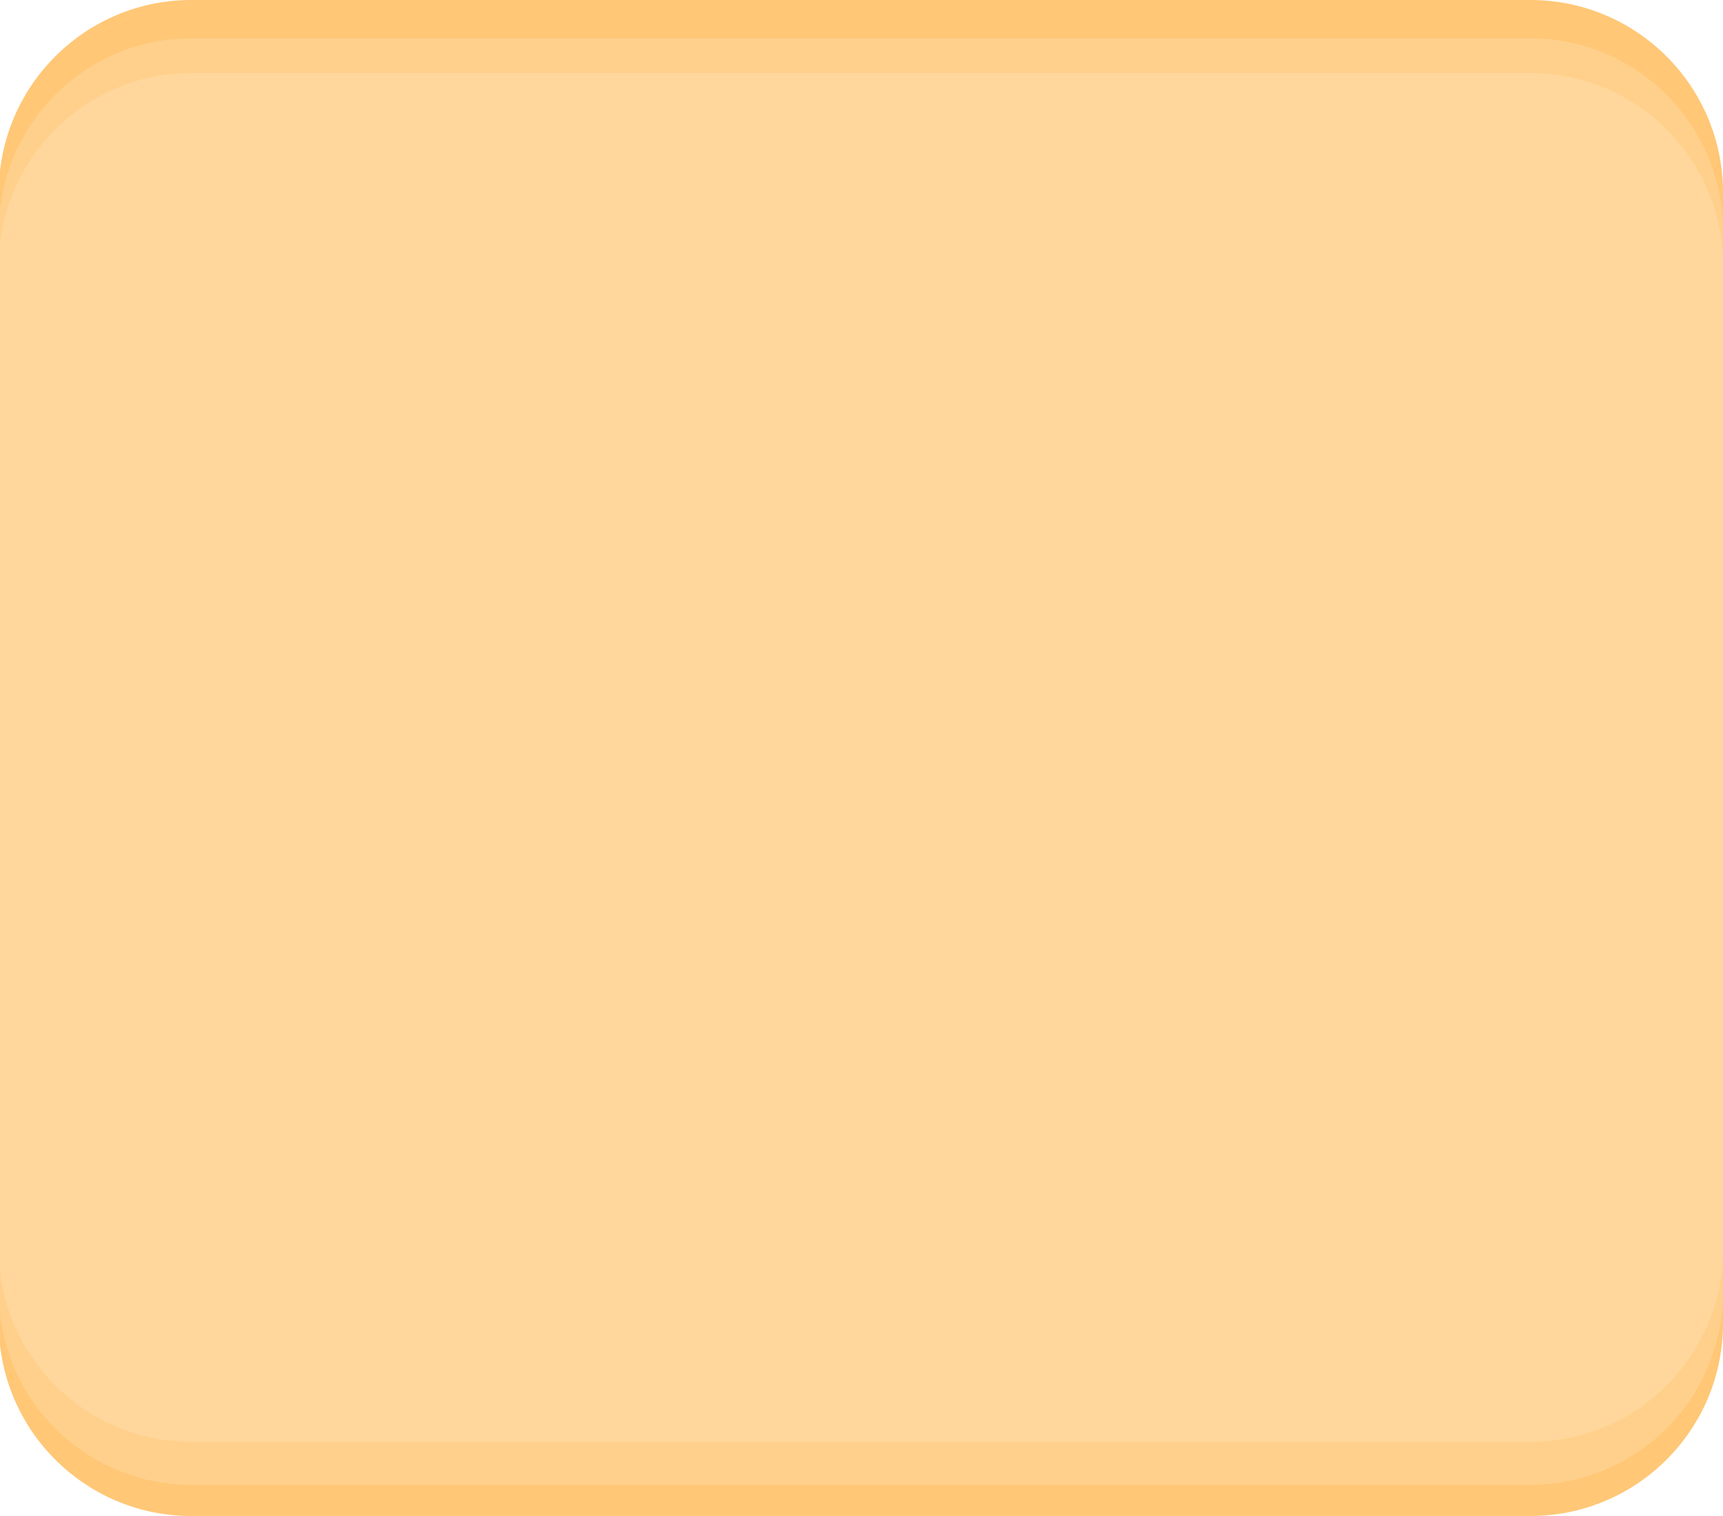
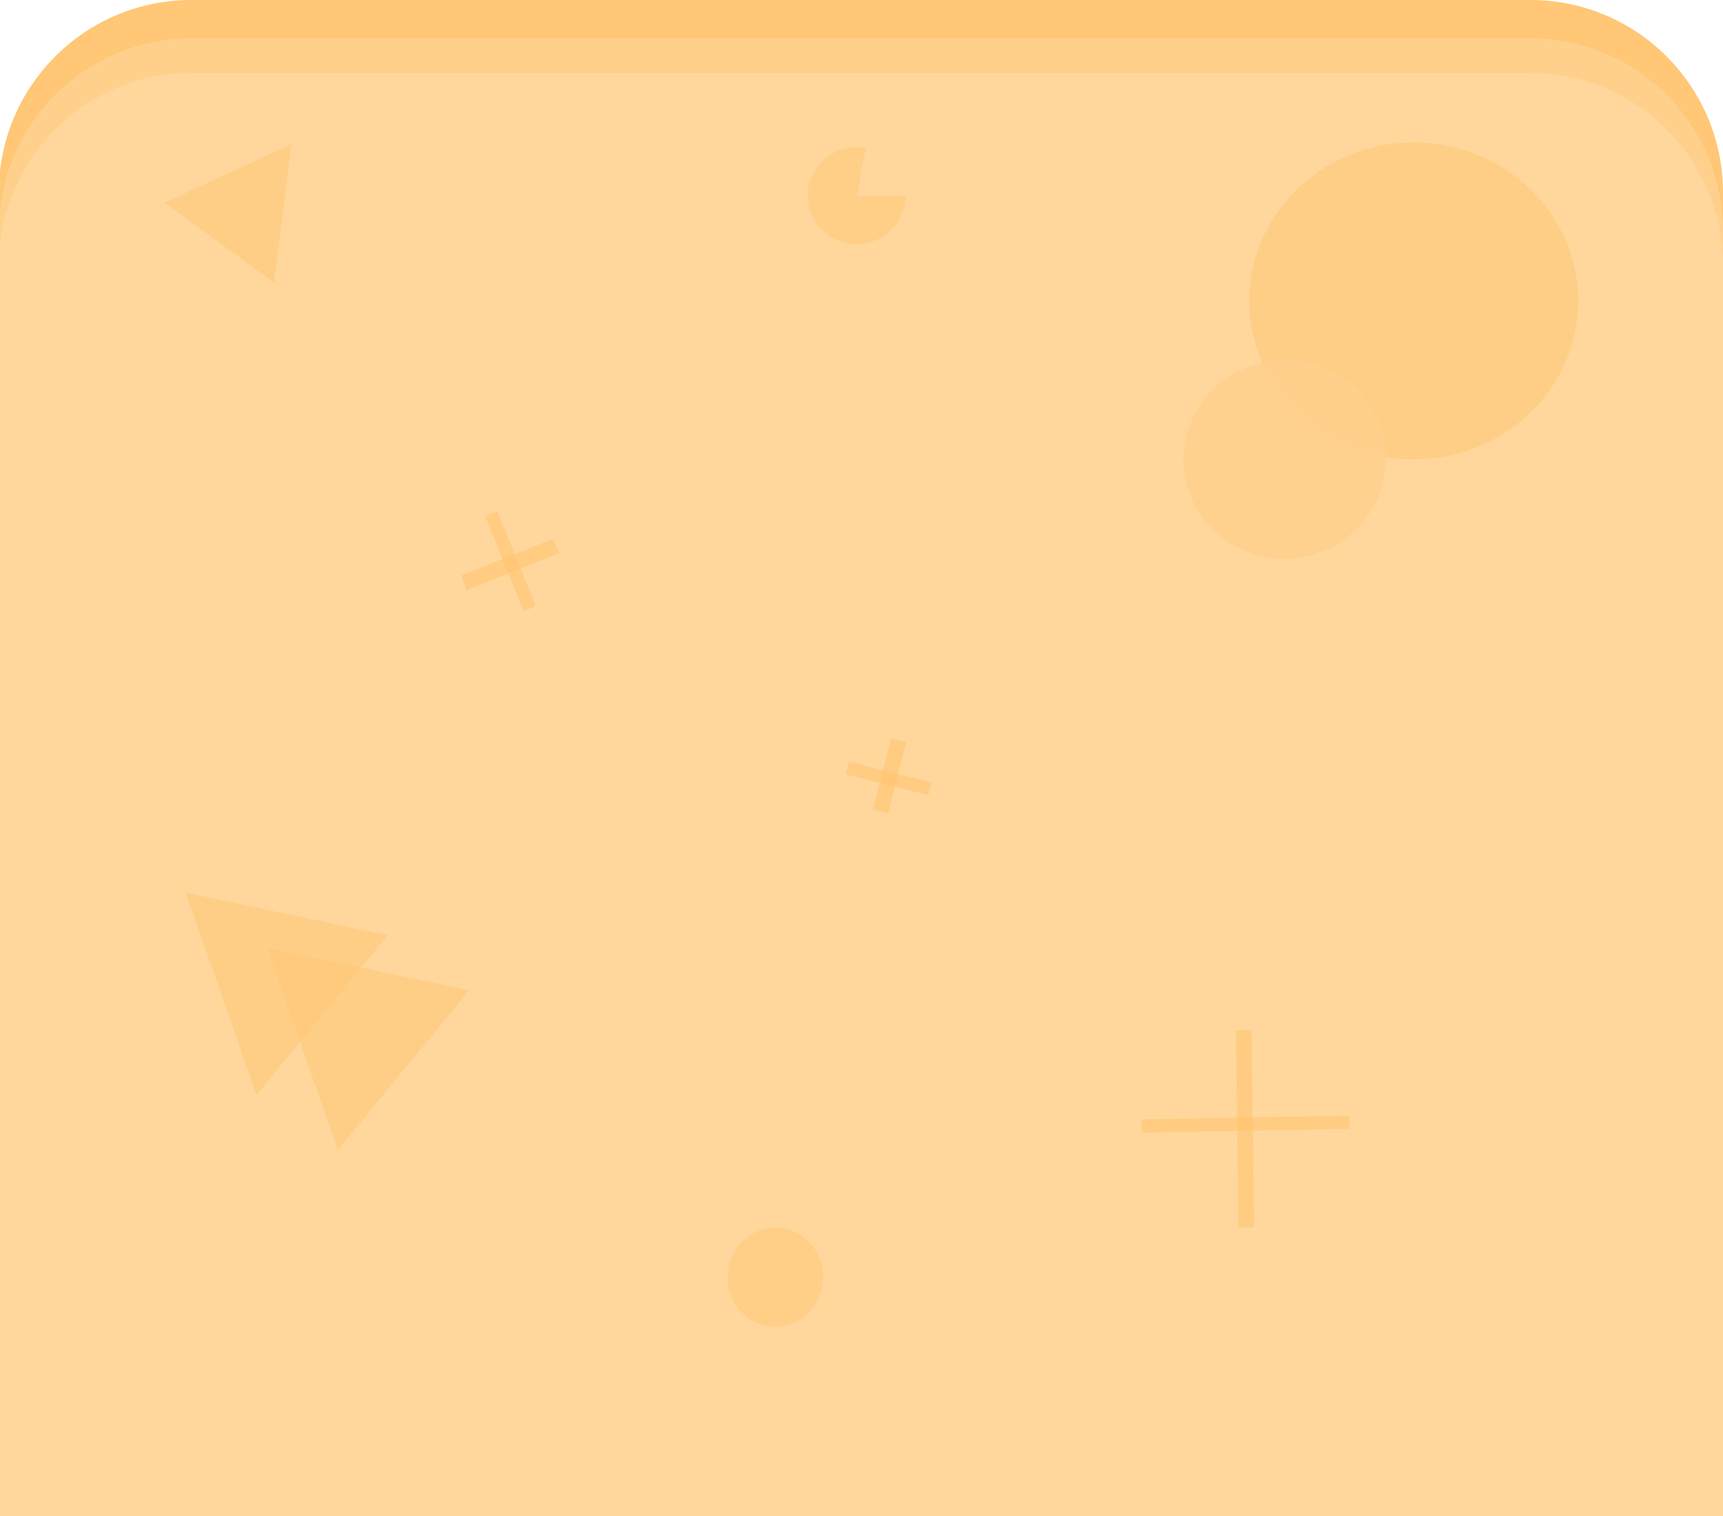
menambahkan corak

diff --git a/index.html b/index.html
@@ -184,42 +184,166 @@
                         </h3>
                     </div>
                     <div class="row mt-5">
-                        <div class="col-lg-4 col-md-4">
-                            <div class="card card-testimoni text-center" data-aos="fade-up" data-aos-duration="300">
-                                <img src="/img/hero-image.png" class="card-img-top" alt="testimoni">
-                                <div class="card-body">
-                                    <h4 class="card-title">
-                                        Mas AlFaiz
-                                    </h4>
-                                    <p class="card-text">Lorem Ipsum is simply dummy text of the printing Lorem Ipsum is simply dummy text of the printing Lorem Ipsum is simply dummy text of the printing Lorem Ipsum is simply dummy text of the printing Lorem Ipsum is simply
-                                        dummy text of the printing Lorem </p>
+                        <div id="carouselMultiItemExample" class="carousel slide carousel-dark text-center" data-bs-ride="carousel">
+                            <!-- Controls -->
+                            <div class="d-flex justify-content-center mb-4">
+                                <button class="carousel-control-prev position-relative btn-carousel" type="button" data-bs-target="#carouselMultiItemExample" data-bs-slide="prev">
+                                <span class="carousel-control-prev-icon" aria-hidden="true">
+                                    <img src="/img/lelf.svg" alt="left" srcset="">
+                                </span>
+                                <span class="visually-hidden">Previous</span>
+                              </button>
+                                <button class="carousel-control-next position-relative" type="button" data-bs-target="#carouselMultiItemExample" data-bs-slide="next">
+                                <span class="carousel-control-next-icon" aria-hidden="true">
+                                    <img src="/img/right.svg" alt="right" srcset="">
+                                </span>
+                                <span class="visually-hidden">Next</span>
+                              </button>
+                            </div>
+                            <!-- Inner -->
+                            <div class="carousel-inner py-4">
+                                <!-- Single item -->
+                                <div class="carousel-item active">
+                                    <div class="container">
+                                        <div class="row">
+                                            <div class="col-lg-4">
+                                                <div class="card card-testimoni text-center" data-aos="fade-up" data-aos-duration="800">
+                                                    <img src="/img/testi1.png" class="card-img-top" alt="testimoni">
+                                                    <div class="card-body">
+                                                        <h4 class="card-title">
+                                                            Mas AlFaiz
+                                                        </h4>
+                                                        <p class="card-text">Lorem Ipsum is simply dummy text of the printing Lorem Ipsum is simply dummy text of the printing Lorem Ipsum is simply dummy text of the printing Lorem Ipsum is simply dummy text of the printing
+                                                            Lorem Ipsum is simply dummy text of the printing Lorem </p>
+                                                    </div>
+                                                </div>
+                                            </div>
+
+                                            <div class="col-lg-4 d-none d-lg-block">
+                                                <div class="card card-testimoni text-center" data-aos="fade-up" data-aos-duration="800">
+                                                    <img src="/img/testi1.png" class="card-img-top" alt="testimoni">
+                                                    <div class="card-body">
+                                                        <h4 class="card-title">
+                                                            Mas AlFaiz
+                                                        </h4>
+                                                        <p class="card-text">Lorem Ipsum is simply dummy text of the printing Lorem Ipsum is simply dummy text of the printing Lorem Ipsum is simply dummy text of the printing Lorem Ipsum is simply dummy text of the printing
+                                                            Lorem Ipsum is simply dummy text of the printing Lorem </p>
+                                                    </div>
+                                                </div>
+                                            </div>
+
+                                            <div class="col-lg-4 d-none d-lg-block">
+                                                <div class="card card-testimoni text-center" data-aos="fade-up" data-aos-duration="800">
+                                                    <img src="/img/testi1.png" class="card-img-top" alt="testimoni">
+                                                    <div class="card-body">
+                                                        <h4 class="card-title">
+                                                            Mas AlFaiz
+                                                        </h4>
+                                                        <p class="card-text">Lorem Ipsum is simply dummy text of the printing Lorem Ipsum is simply dummy text of the printing Lorem Ipsum is simply dummy text of the printing Lorem Ipsum is simply dummy text of the printing
+                                                            Lorem Ipsum is simply dummy text of the printing Lorem </p>
+                                                    </div>
+                                                </div>
+                                            </div>
+                                        </div>
+                                    </div>
+                                </div>
+
+                                <!-- Single item -->
+                                <div class="carousel-item">
+                                    <div class="container">
+                                        <div class="row">
+                                            <div class="col-lg-4">
+                                                <div class="card card-testimoni text-center" data-aos="fade-up" data-aos-duration="800">
+                                                    <img src="/img/testi1.png" class="card-img-top" alt="testimoni">
+                                                    <div class="card-body">
+                                                        <h4 class="card-title">
+                                                            Mas AlFaiz
+                                                        </h4>
+                                                        <p class="card-text">Lorem Ipsum is simply dummy text of the printing Lorem Ipsum is simply dummy text of the printing Lorem Ipsum is simply dummy text of the printing Lorem Ipsum is simply dummy text of the printing
+                                                            Lorem Ipsum is simply dummy text of the printing Lorem </p>
+                                                    </div>
+                                                </div>
+                                            </div>
+
+                                            <div class="col-lg-4 d-none d-lg-block">
+                                                <div class="card card-testimoni text-center" data-aos="fade-up" data-aos-duration="800">
+                                                    <img src="/img/testi1.png" class="card-img-top" alt="testimoni">
+                                                    <div class="card-body">
+                                                        <h4 class="card-title">
+                                                            Mas AlFaiz
+                                                        </h4>
+                                                        <p class="card-text">Lorem Ipsum is simply dummy text of the printing Lorem Ipsum is simply dummy text of the printing Lorem Ipsum is simply dummy text of the printing Lorem Ipsum is simply dummy text of the printing
+                                                            Lorem Ipsum is simply dummy text of the printing Lorem </p>
+                                                    </div>
+                                                </div>
+                                            </div>
+
+                                            <div class="col-lg-4 d-none d-lg-block">
+                                                <div class="card card-testimoni text-center" data-aos="fade-up" data-aos-duration="800">
+                                                    <img src="/img/testi1.png" class="card-img-top" alt="testimoni">
+                                                    <div class="card-body">
+                                                        <h4 class="card-title">
+                                                            Mas AlFaiz
+                                                        </h4>
+                                                        <p class="card-text">Lorem Ipsum is simply dummy text of the printing Lorem Ipsum is simply dummy text of the printing Lorem Ipsum is simply dummy text of the printing Lorem Ipsum is simply dummy text of the printing
+                                                            Lorem Ipsum is simply dummy text of the printing Lorem </p>
+                                                    </div>
+                                                </div>
+                                            </div>
+                                        </div>
+                                    </div>
+                                </div>
+
+                                <!-- Single item -->
+                                <div class="carousel-item">
+                                    <div class="container">
+                                        <div class="row">
+                                            <div class="col-lg-4">
+                                                <div class="card card-testimoni text-center" data-aos="fade-up" data-aos-duration="800">
+                                                    <img src="/img/testi1.png" class="card-img-top" alt="testimoni">
+                                                    <div class="card-body">
+                                                        <h4 class="card-title">
+                                                            Mas AlFaiz
+                                                        </h4>
+                                                        <p class="card-text">Lorem Ipsum is simply dummy text of the printing Lorem Ipsum is simply dummy text of the printing Lorem Ipsum is simply dummy text of the printing Lorem Ipsum is simply dummy text of the printing
+                                                            Lorem Ipsum is simply dummy text of the printing Lorem </p>
+                                                    </div>
+                                                </div>
+                                            </div>
+
+                                            <div class="col-lg-4 d-none d-lg-block">
+                                                <div class="card card-testimoni text-center" data-aos="fade-up" data-aos-duration="800">
+                                                    <img src="/img/testi1.png" class="card-img-top" alt="testimoni">
+                                                    <div class="card-body">
+                                                        <h4 class="card-title">
+                                                            Mas AlFaiz
+                                                        </h4>
+                                                        <p class="card-text">Lorem Ipsum is simply dummy text of the printing Lorem Ipsum is simply dummy text of the printing Lorem Ipsum is simply dummy text of the printing Lorem Ipsum is simply dummy text of the printing
+                                                            Lorem Ipsum is simply dummy text of the printing Lorem </p>
+                                                    </div>
+                                                </div>
+                                            </div>
+
+                                            <div class="col-lg-4 d-none d-lg-block">
+                                                <div class="card card-testimoni text-center" data-aos="fade-up" data-aos-duration="800">
+                                                    <img src="/img/testi1.png" class="card-img-top" alt="testimoni">
+                                                    <div class="card-body">
+                                                        <h4 class="card-title">
+                                                            Mas AlFaiz
+                                                        </h4>
+                                                        <p class="card-text">Lorem Ipsum is simply dummy text of the printing Lorem Ipsum is simply dummy text of the printing Lorem Ipsum is simply dummy text of the printing Lorem Ipsum is simply dummy text of the printing
+                                                            Lorem Ipsum is simply dummy text of the printing Lorem </p>
+                                                    </div>
+                                                </div>
+                                            </div>
+                                        </div>
+                                    </div>
                                 </div>
                             </div>
+                            <!-- Inner -->
                         </div>
-                        <div class="col-lg-4 col-md-4">
-                            <div class="card card-testimoni text-center" data-aos="fade-up" data-aos-duration="500">
-                                <img src="/img/hero-image.png" class="card-img-top" alt="testimoni">
-                                <div class="card-body">
-                                    <h4 class="card-title">
-                                        Mas AlFaiz
-                                    </h4>
-                                    <p class="card-text">Lorem Ipsum is simply dummy text of the printing Lorem Ipsum is simply dummy text of the printing Lorem Ipsum is simply dummy text of the printing Lorem Ipsum is simply dummy text of the printing Lorem Ipsum is simply
-                                        dummy text of the printing Lorem </p>
-                                </div>
-                            </div>
-                        </div>
-                        <div class="col-lg-4 col-md-4">
-                            <div class="card card-testimoni text-center" data-aos="fade-up" data-aos-duration="800">
-                                <img src="/img/hero-image.png" class="card-img-top" alt="testimoni">
-                                <div class="card-body">
-                                    <h4 class="card-title">
-                                        Mas AlFaiz
-                                    </h4>
-                                    <p class="card-text">Lorem Ipsum is simply dummy text of the printing Lorem Ipsum is simply dummy text of the printing Lorem Ipsum is simply dummy text of the printing Lorem Ipsum is simply dummy text of the printing Lorem Ipsum is simply
-                                        dummy text of the printing Lorem </p>
-                                </div>
-                            </div>
-                        </div>
+                        <!-- Carousel wrapper -->
+
                     </div>
                 </div>
             </div>
@@ -328,7 +452,8 @@
 
 
     <footer class="footer">
-        <div class="container">
+        <img class="tiga" src="/img/corak-footer3.svg" alt="corak">
+        <div class="container footer-content">
             <div class="row">
                 <div class="col-lg-3 col-md-3 align-self-center">
                     <div class="info-footer">
@@ -396,6 +521,10 @@
                     </div>
                 </div>
             </div>
+        </div>
+        <div class="corak-footer">
+            <img class="satu" src="/img/corak-footer1.svg" alt="corak">
+            <img class="dua" src="/img/corak-footer2.svg" alt="corak">
         </div>
     </footer>
 

diff --git a/style.css b/style.css
@@ -193,12 +193,9 @@ body {
 }
 
 .card-testimoni {
-    padding-top: 30px;
     padding-bottom: 30px;
     margin-bottom: 25px;
     border: none;
-    padding-left: 10px;
-    padding-right: 10px;
     background: #FFFFFF;
     border-radius: 25px;
     transition: transform 500ms;
@@ -209,12 +206,8 @@ body {
 }
 
 .card-testimoni img {
-    border-radius: 50px;
-    width: 80px;
-    height: 80px;
-    margin-top: 20px;
-    margin-left: auto;
-    margin-right: auto;
+    width: 100%;
+    height: 100%;
     margin-bottom: 10px;
 }
 
@@ -359,6 +352,36 @@ body {
     padding-bottom: 40px;
 }
 
+.tiga {
+    z-index: 1;
+    position: absolute;
+    display: none;
+}
+
+.corak-footer {
+    z-index: 1;
+    position: relative;
+}
+
+.corak-footer .satu {
+    position: absolute;
+    top: auto;
+    bottom: 0;
+}
+
+.corak-footer .dua {
+    position: absolute;
+    top: auto;
+    left: auto;
+    right: 0;
+    bottom: 0;
+}
+
+.footer-content {
+    position: relative;
+    z-index: 33;
+}
+
 .info-footer p {
     margin-top: 10px;
     color: #595959;
@@ -419,6 +442,14 @@ body {
 
 
 /*Button*/
+
+.carousel-dark .carousel-control-next-icon {
+    filter: none;
+}
+
+.carousel-dark .carousel-control-prev-icon {
+    filter: none;
+}
 
 .btn-link {
     font-weight: 500;
@@ -533,5 +564,11 @@ body {
     }
     .payment-item {
         margin-top: 10px;
+    }
+}
+
+@media (max-width:545px) {
+    .tiga {
+        display: block;
     }
 }
